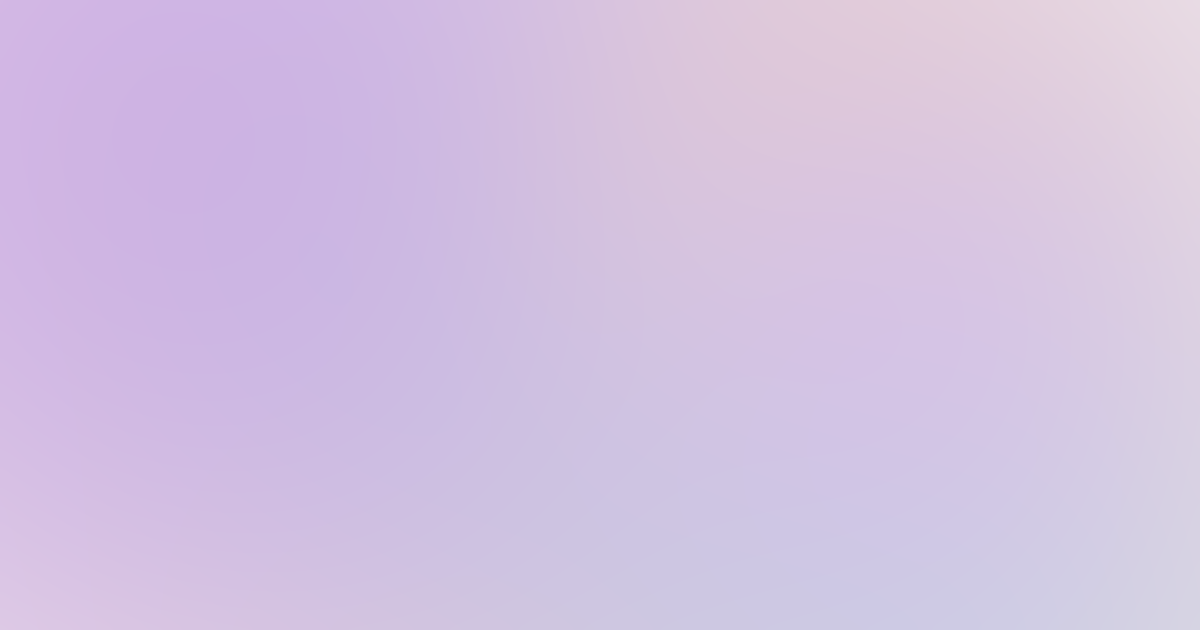
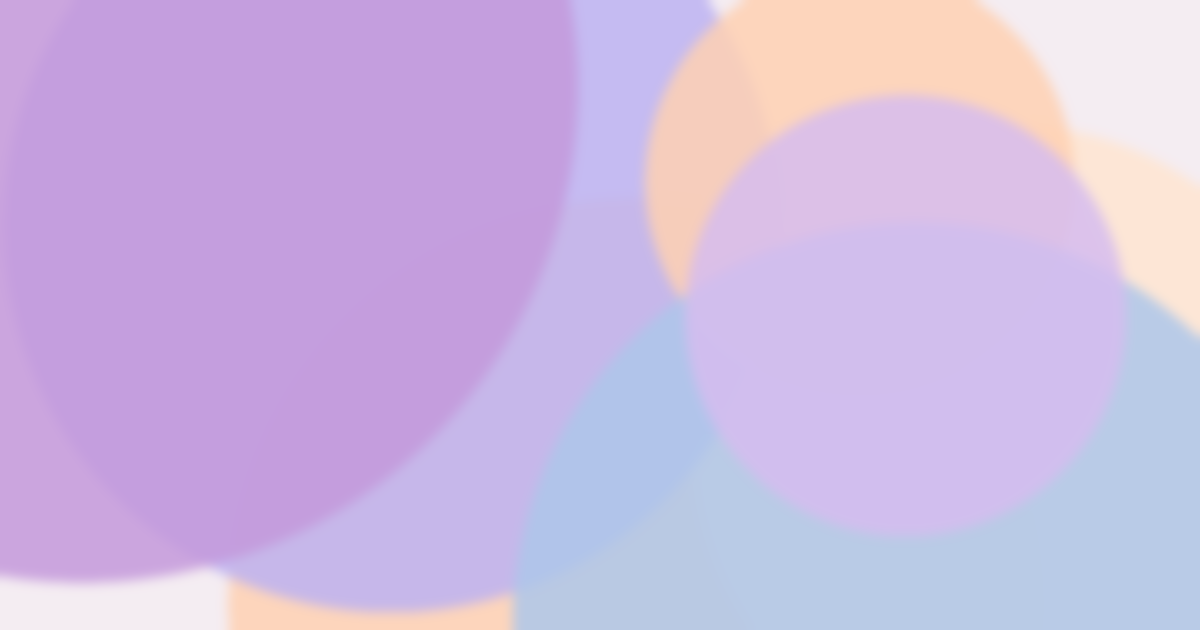
fix(blog): use flat circles for blur comparison to show dramatic visual difference
Previous blur comparison images used gaussian falloff which already creates
smooth transitions, making blur radius differences nearly invisible. Now
uses hard-edged flat circles so the blur effect is clearly visible at r=5
and r=15.

diff --git a/scripts/generate-ogp/main.go b/scripts/generate-ogp/main.go
@@ -398,6 +398,41 @@ func renderWithStrength(blobs []colorBlob, strength float64) *floatBuf {
 	return buf
 }
 
+// shadePixelFlat renders hard-edged flat circles (step function) instead of gaussian falloff.
+// This makes blur effects dramatically visible.
+func shadePixelFlat(x, y int, blobs []colorBlob) (float64, float64, float64) {
+	col := [3]float64{0.96, 0.93, 0.95}
+	px, py := float64(x), float64(y)
+	for _, b := range blobs {
+		dx := px - b.px
+		dy := py - b.py
+		dist := math.Sqrt(dx*dx + dy*dy)
+		if dist < b.radius {
+			col[0] = lerp(col[0], b.col[0], 0.85)
+			col[1] = lerp(col[1], b.col[1], 0.85)
+			col[2] = lerp(col[2], b.col[2], 0.85)
+		}
+	}
+	return col[0], col[1], col[2]
+}
+
+func renderFlatCircles(blobs []colorBlob) *floatBuf {
+	buf := newFloatBuf(imgW, imgH)
+	var wg sync.WaitGroup
+	for row := range imgH {
+		wg.Add(1)
+		go func(y int) {
+			defer wg.Done()
+			for x := range imgW {
+				r, g, b := shadePixelFlat(x, y, blobs)
+				buf.set(x, y, r, g, b)
+			}
+		}(row)
+	}
+	wg.Wait()
+	return buf
+}
+
 func renderStages(root string) {
 	title := "GoでOGP背景画像を冪等に生成する"
 	seed := titleSeed(title)
@@ -432,13 +467,16 @@ func renderStages(root string) {
 	fmt.Println("rendering strength-100 ...")
 	save("strength-100.png", renderWithStrength(blobs, 1.0).toRGBA())
 
-	// ── Blur radius comparison ──
-	for _, r := range []int{5, 15} {
-		fmt.Printf("rendering blur-r%d ...\n", r)
-		b := renderBlobLayers(blobs, numBlobs)
-		gaussianBlur(b, r)
-		save(fmt.Sprintf("blur-r%d.png", r), b.toRGBA())
-	}
+	// ── Blur comparison: use flat circles (hard edges) so blur effect is dramatic ──
+	fmt.Println("rendering blur-r5 (flat circles, r=5) ...")
+	br5 := renderFlatCircles(blobs)
+	gaussianBlur(br5, 5)
+	save("blur-r5.png", br5.toRGBA())
+
+	fmt.Println("rendering blur-r15 (flat circles, r=15) ...")
+	br15 := renderFlatCircles(blobs)
+	gaussianBlur(br15, 15)
+	save("blur-r15.png", br15.toRGBA())
 }
 
 // ── Text drawing ─────────────────────────────────────────────────────────

diff --git a/sites/0xjj.dev/src/content/blog/ogp-background-generator.md b/sites/0xjj.dev/src/content/blog/ogp-background-generator.md
@@ -184,7 +184,9 @@ func gaussianBlur(buf *floatBuf, radius int) {
 
 ボックスブラーを 3 回繰り返すとガウシアンブラーに近似できるという性質を利用しています（中心極限定理）。さらに水平・垂直に分離 (separable) することで、計算量をスライディングウィンドウの `O(w*h)` まで落とせます。
 
-半径の違いでどれくらい仕上がりが変わるかを見てみます。半径 5 だと blob の輪郭がまだ残っており、個々の色の配置がはっきり見えます。
+半径の違いでどれくらい仕上がりが変わるかを見てみます。ブラーの効果を分かりやすくするために、ガウシアン減衰を使わずフラットな円（ステップ関数）で blob を描画した画像にブラーをかけてみます。
+
+半径 5 だと blob の輪郭がまだ残っており、個々の色の配置がはっきり見えます。
 
 ![](https://0xjj.dev/images/blog/ogp-background-generator/blur-r5.png)
 
